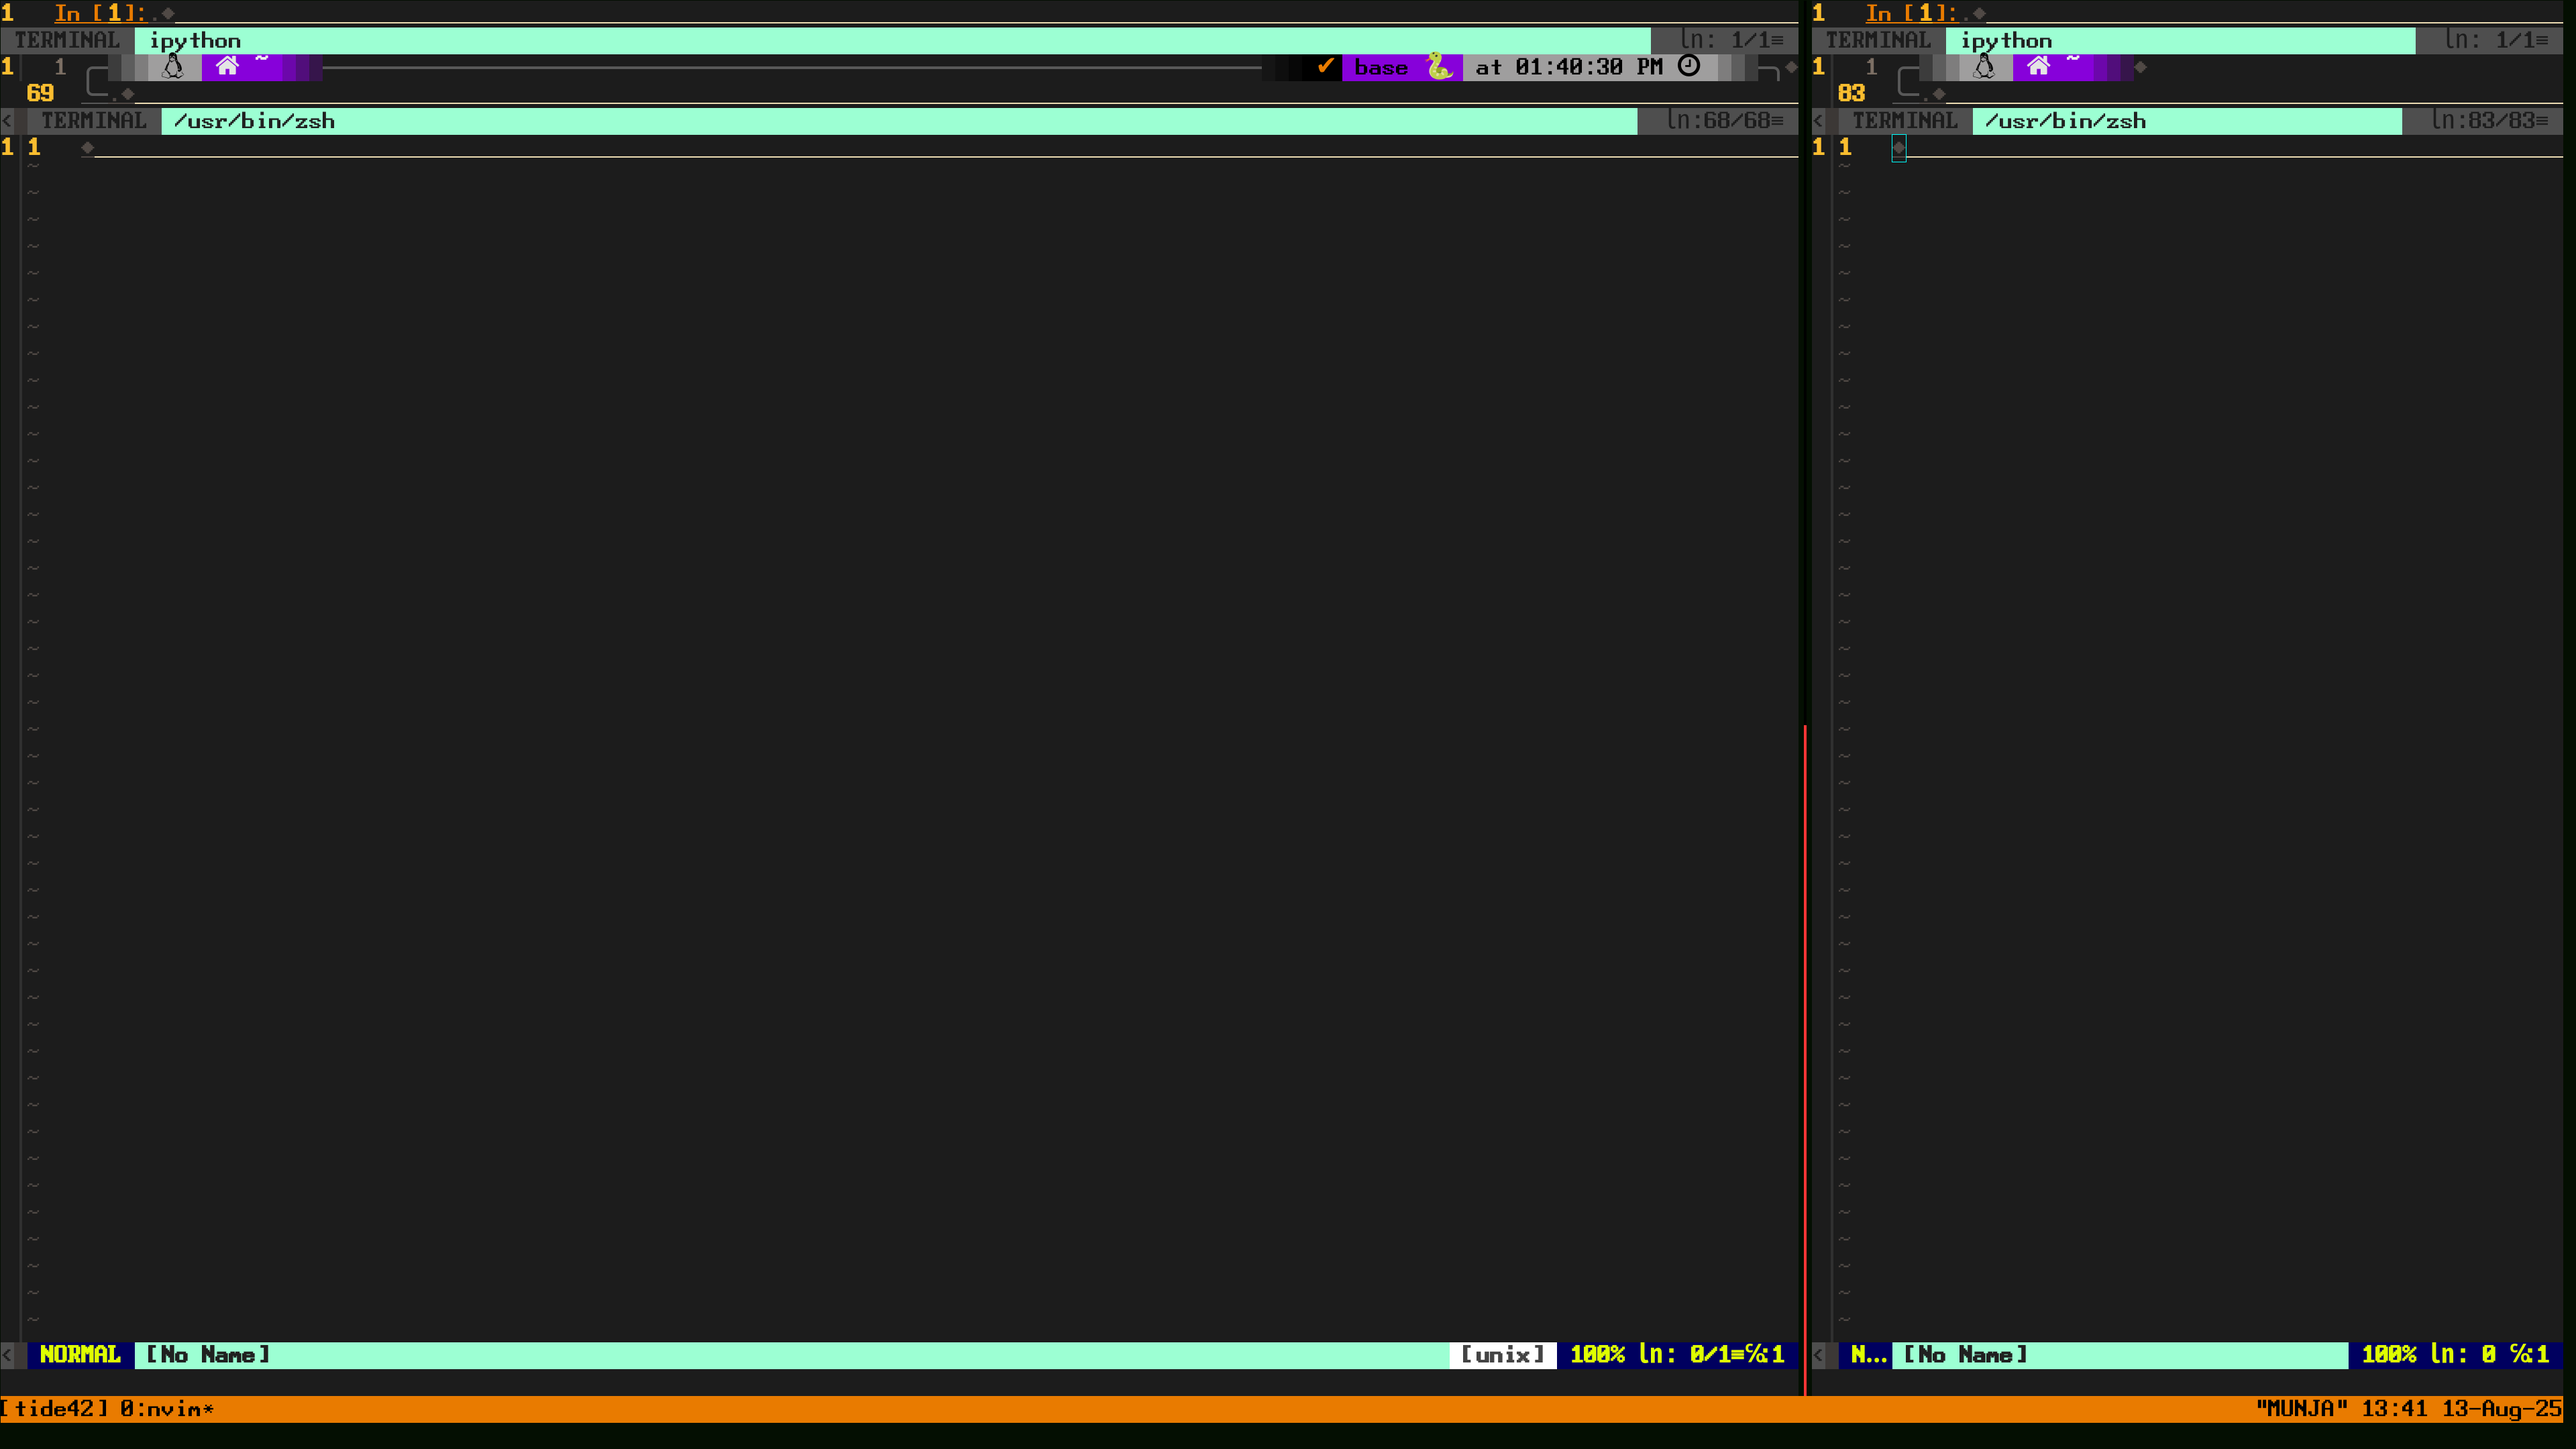
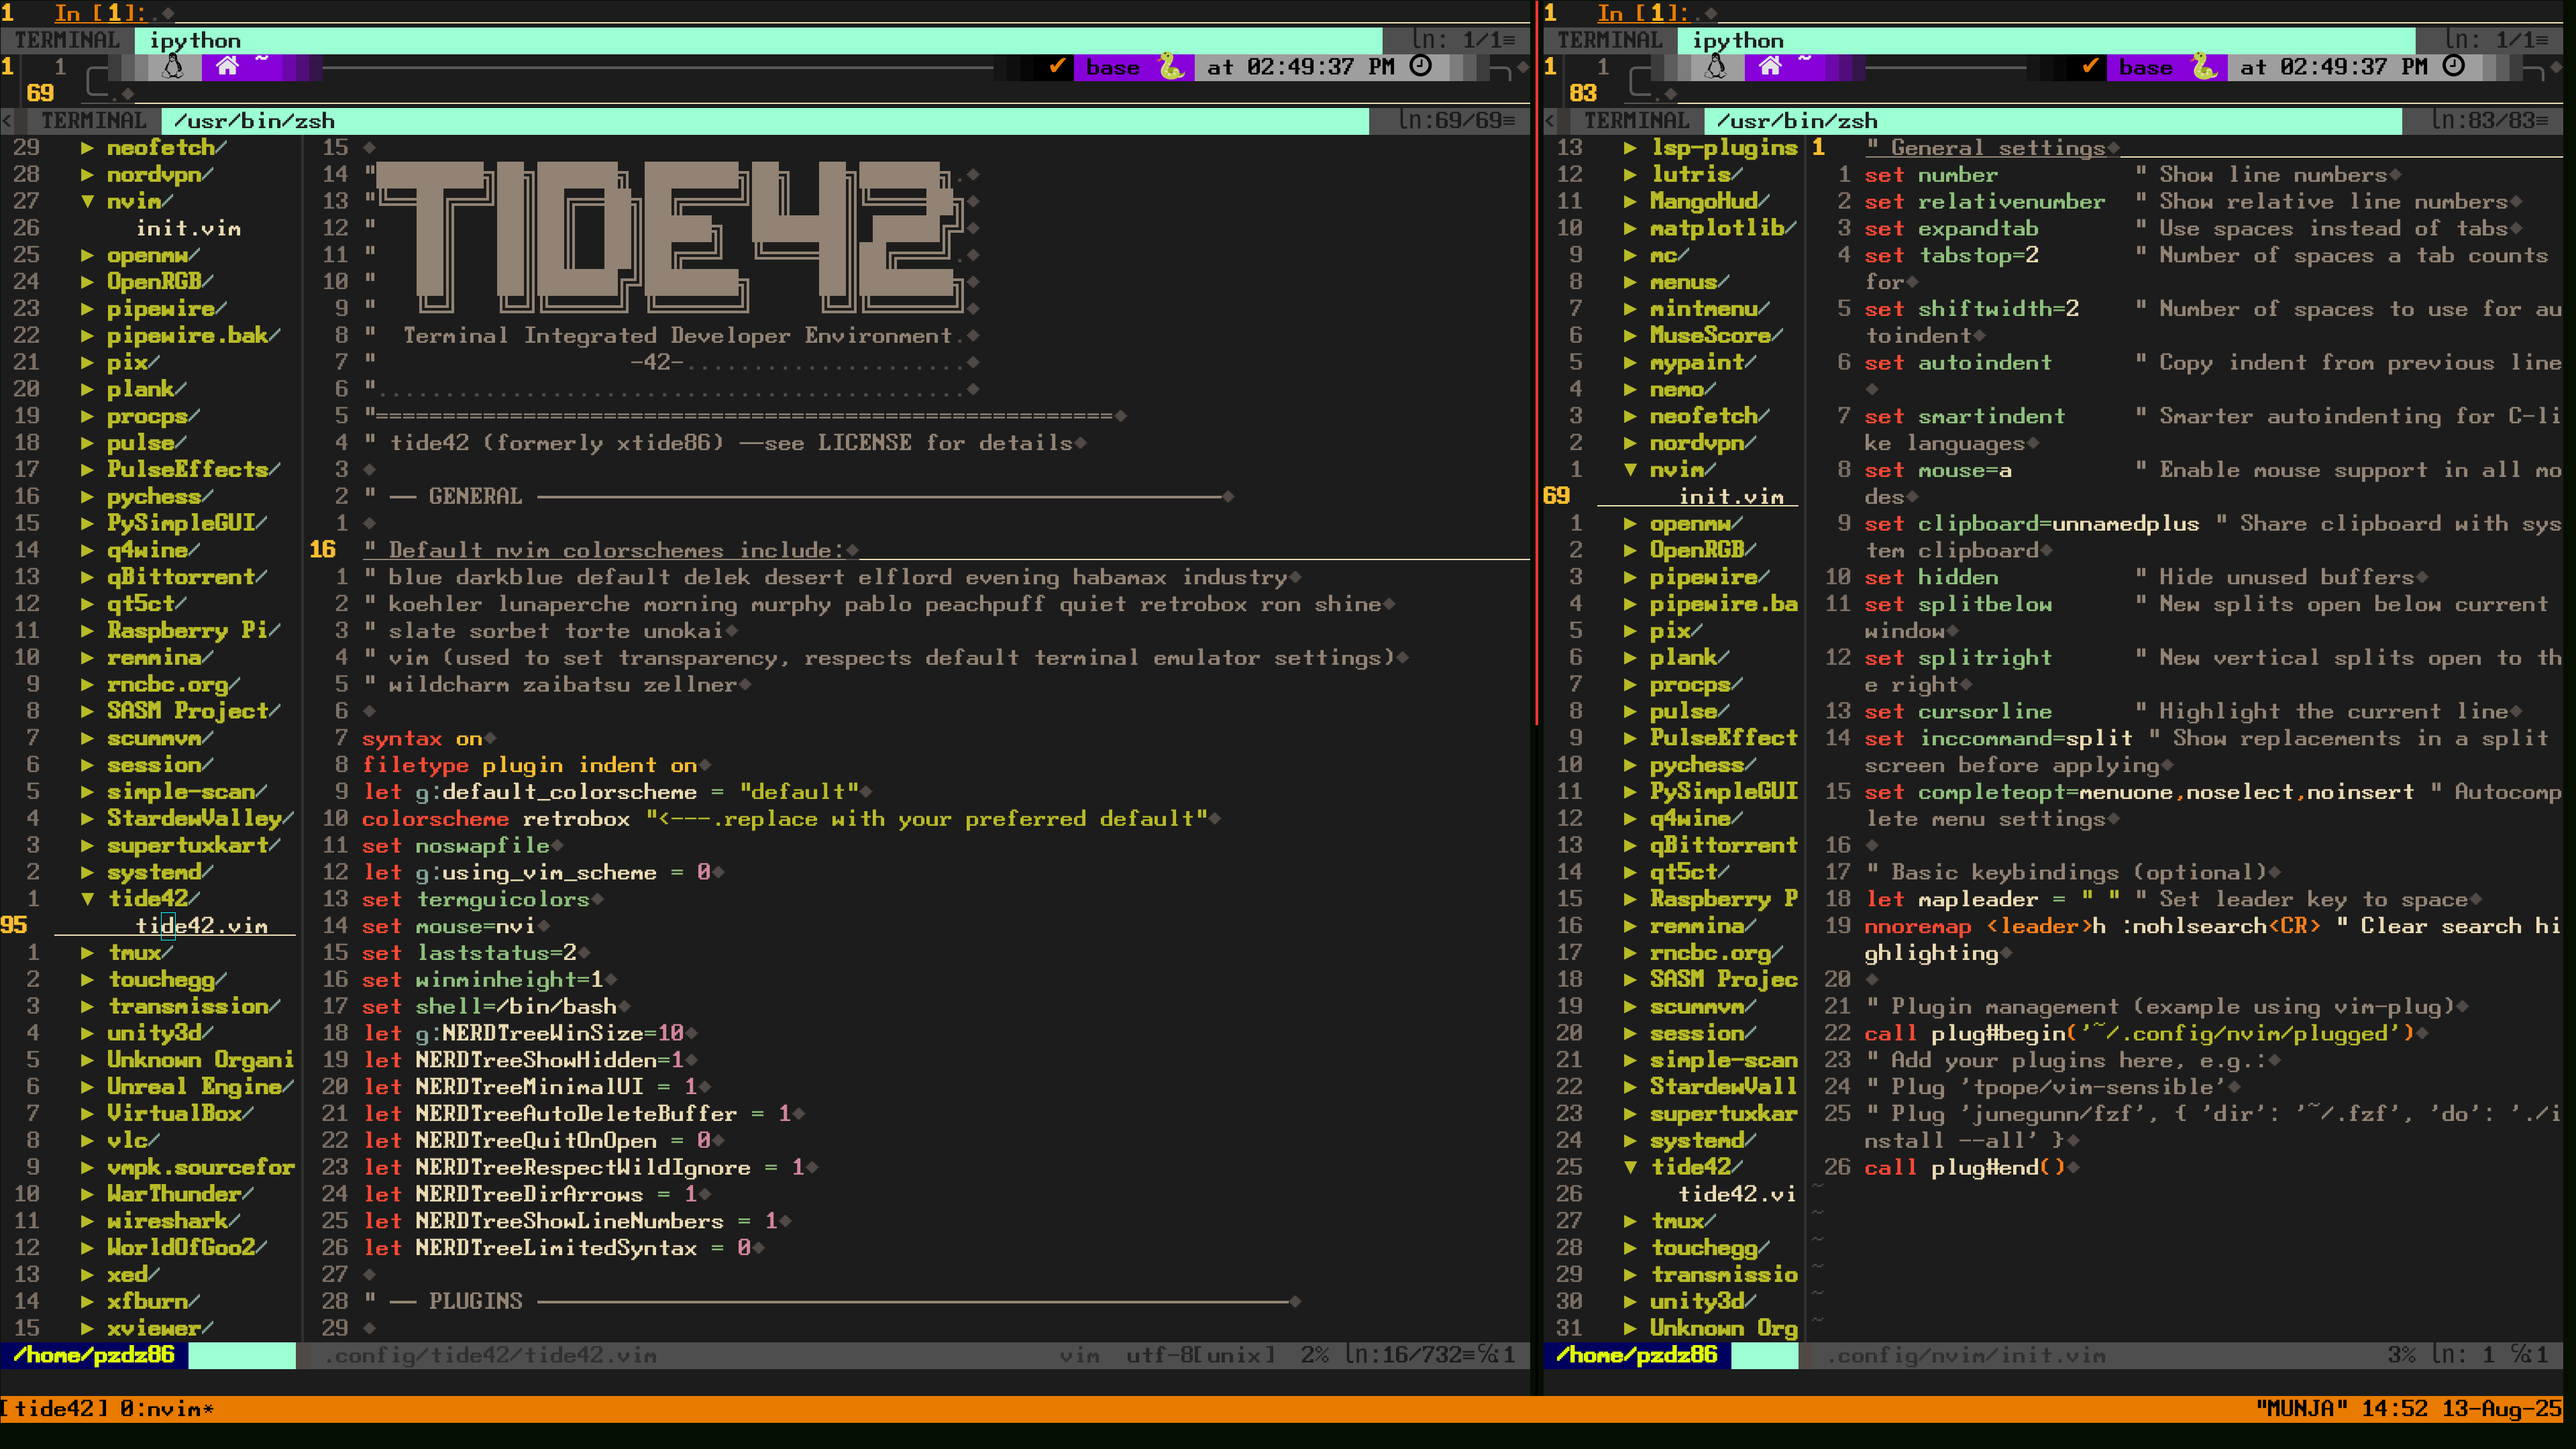
Updated screenshots and descriptions

diff --git a/README.md b/README.md
@@ -283,8 +283,8 @@ Pull requests, stars, and forks welcome
 
 ### 	
 
-### Tide42 autodetects zsh or bash
-![Zsh](Screenshots/Screenshot.png)
+### Tide42 and Nvim now have seperate configurations.
+![Config](Screenshots/Screenshot.png)
 
 ### Tide42 running bash X11
 ![Bash](Screenshots/Screenshot0.png)
